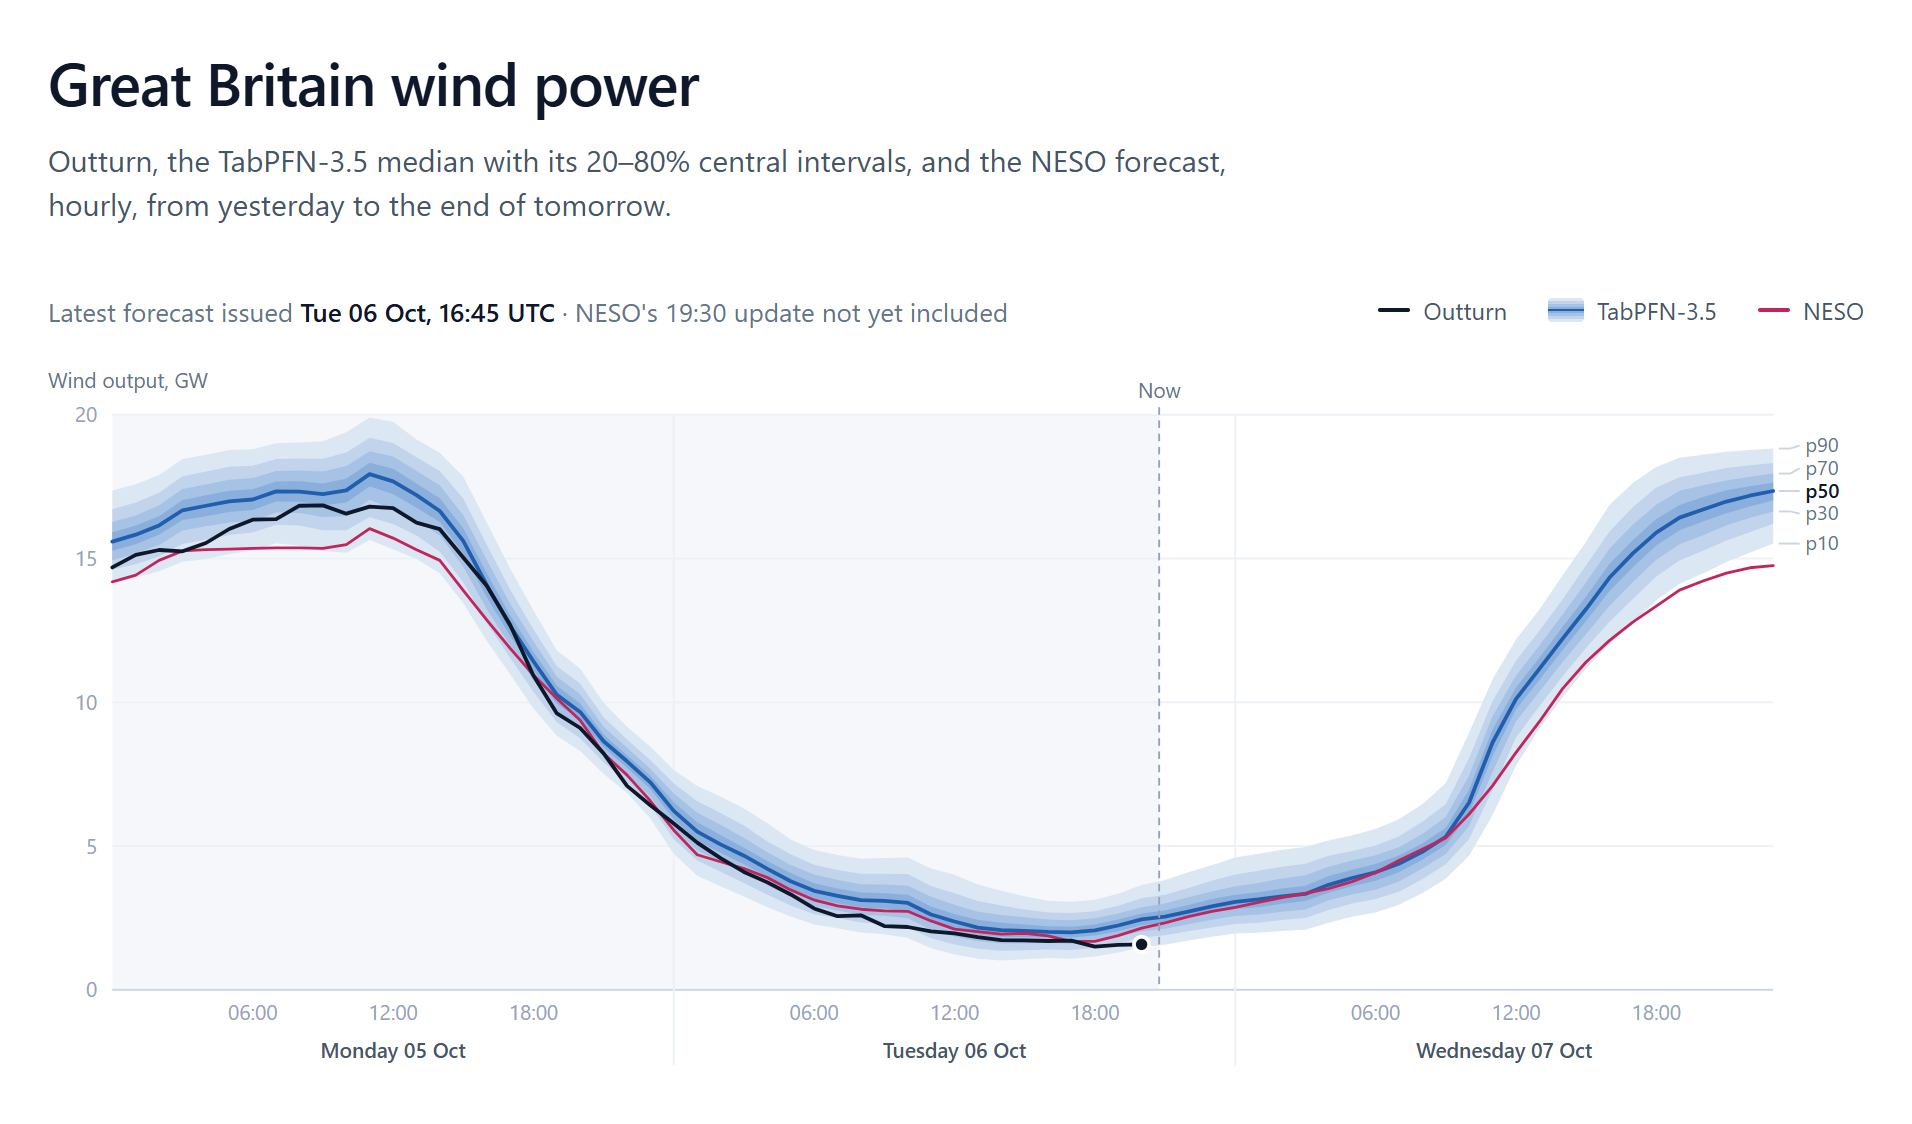
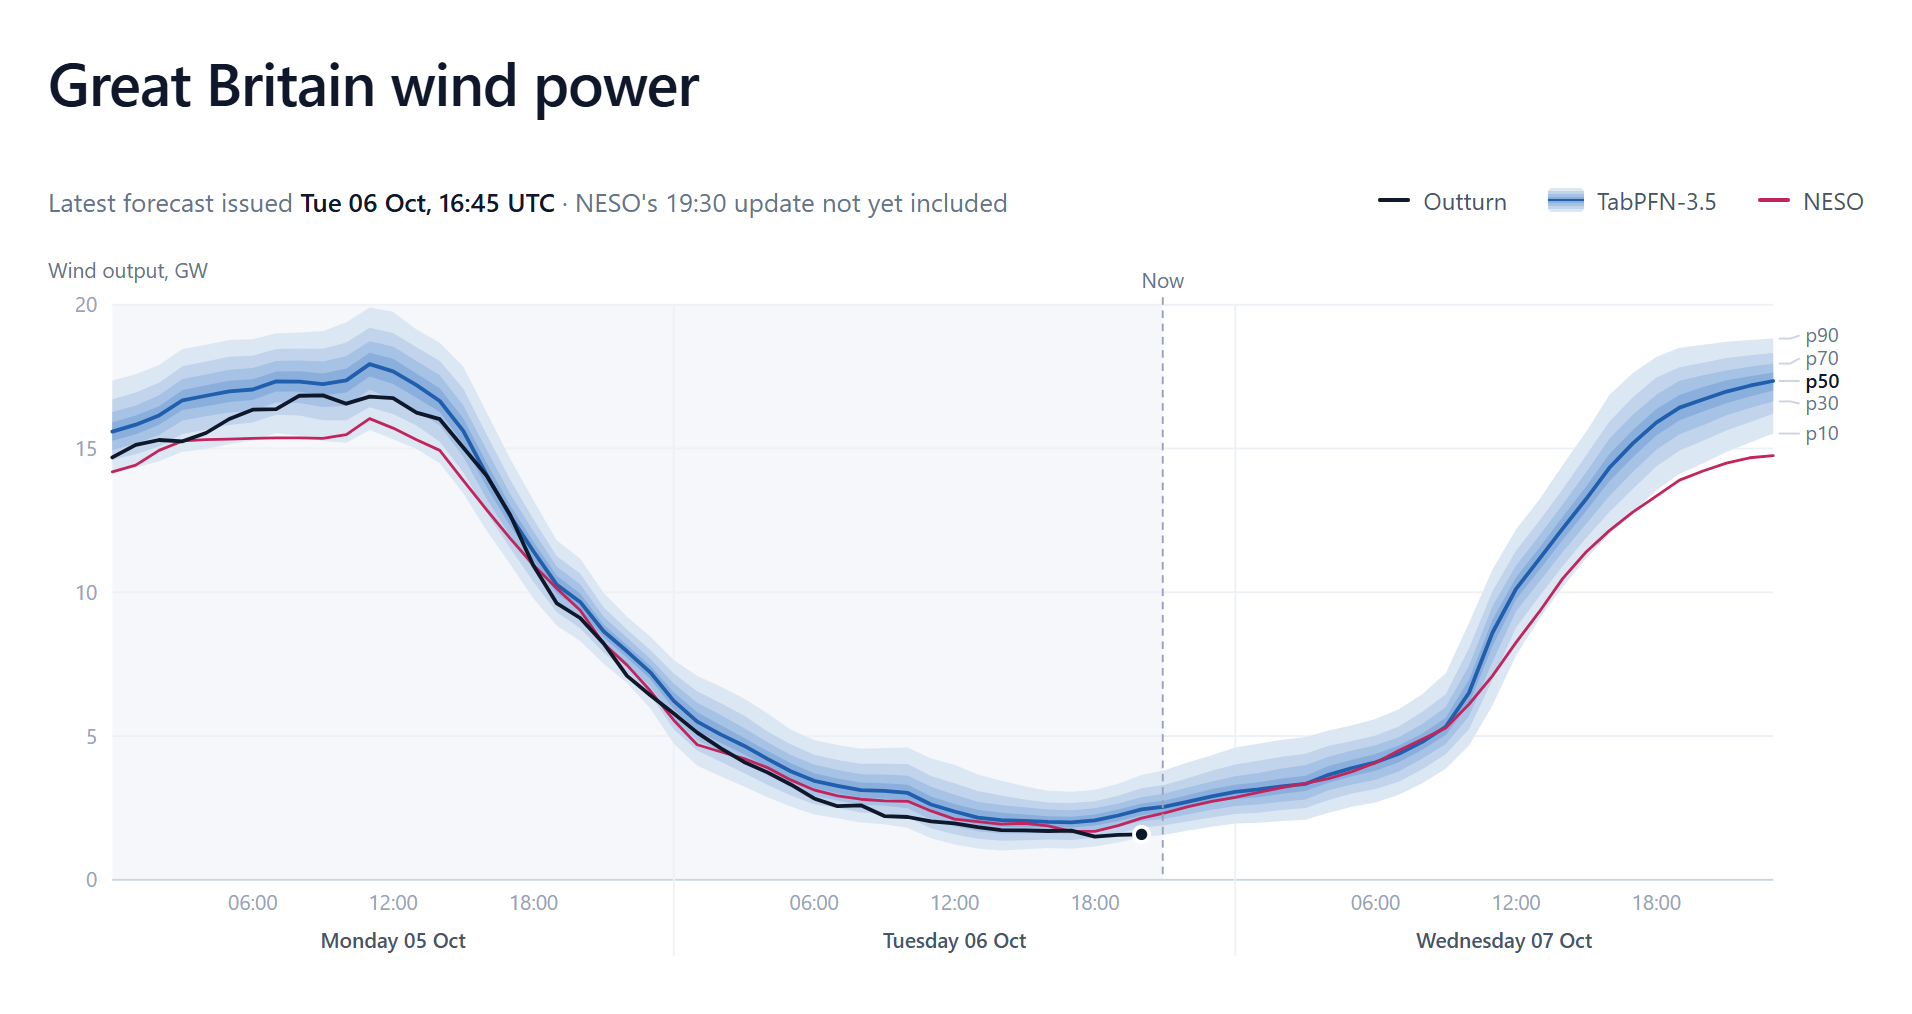
Tidy the live page's benchmark chart and drop the lede

diff --git a/notebooks/explorer.py b/notebooks/explorer.py
@@ -136,7 +136,6 @@ def _():
     .page {{ color: {P["ink"]}; font: 14px/1.5 {FONT}; }}
     .page h1 {{ font-size: 30px; font-weight: 600; letter-spacing: -.02em; line-height: 1.15;
                 margin: 4px 0 10px; color: {P["ink"]}; }}
-    .page .lede {{ color: {P["ink2"]}; font-size: 15px; max-width: 620px; margin: 0; }}
     .bar {{ display: flex; flex-wrap: wrap; justify-content: space-between; align-items: center;
             gap: 8px 24px; margin-top: 8px; font-size: 13px; color: {P["muted"]}; }}
     .bar b {{ color: {P["ink"]}; font-weight: 500; }}
@@ -165,7 +164,7 @@ def _():
     .chart .tip .note {{ font-size: 10.5px; }}
     .notes {{ color: {P["ink2"]}; max-width: 620px; margin: 4px 0 16px; }}
     .notes b {{ color: {P["ink"]}; font-weight: 600; }}
-    .scores {{ display: block; max-width: 600px; width: 100%; height: auto; font: 12px {FONT};
+    .scores {{ display: block; max-width: 720px; width: 100%; height: auto; font: 12px {FONT};
                font-variant-numeric: tabular-nums; }}
     .scores text {{ fill: {P["ink2"]}; }}
     .scores text.head, .scores text.ours, .scores text.value {{ fill: {P["ink"]}; }}
@@ -316,7 +315,7 @@ def _(P, np, pd):
 
     def scores(meta, W: int = 600) -> str:
         """Held-out MAE and 80% interval coverage, TabPFN-3.5 against NESO and the references."""
-        label, panel, gap, row, top = 190, 170, 40, 30, 30
+        label, panel, gap, row, top = 190, 150, 60, 28, 28
         mae_x, cover_x = label, label + panel + gap
         bottom = top + row * len(meta.scores)
         H = bottom + 16
@@ -336,12 +335,13 @@ def _(P, np, pd):
             out.append(f'<rect x="{mae_x}" y="{y + 4}" width="{width:.1f}" height="14" rx="2" fill="{colour}"/>')
             out.append(f'<text x="{mae_x + width + 6:.1f}" y="{y + 15}" class="value">{mae:,}</text>')
             if cover is None:
-                out.append(f'<text x="{cover_x}" y="{y + 15}" class="note">point forecast only</text>')
+                out.append(f'<text x="{cover_x}" y="{y + 15}" class="note">no interval</text>')
                 continue
             width = cover * panel
             out.append(f'<rect x="{cover_x}" y="{y + 4}" width="{width:.1f}" height="14" rx="2" fill="{colour}"/>')
-            out.append(f'<text x="{W}" y="{y + 15}" text-anchor="end" class="value">{cover:.0%}</text>')
-        return f'<svg class="scores" viewBox="0 0 {W} {H}" role="img">{"".join(out)}</svg>'
+            out.append(f'<text x="{cover_x + panel + 8}" y="{y + 15}" class="value">{cover:.0%}</text>')
+        return (f'<svg class="scores" viewBox="0 0 {W} {H}" role="img" '
+                f'style="display:block;max-width:720px;width:100%;height:auto">{"".join(out)}</svg>')
 
     return chart, scores
 
@@ -352,8 +352,6 @@ def _(CSS, mo):
     <style>{CSS}</style>
     <header class="page">
       <h1>Great Britain wind power</h1>
-      <p class="lede">Outturn, the TabPFN-3.5 median with its 20–80% central intervals, and the NESO
-      forecast, hourly, from yesterday to the end of tomorrow.</p>
     </header>
     """)
     return
@@ -384,10 +382,11 @@ def _(P, chart, incumbent, live, mo, newest, now, observed, pd):
 
 
 @app.cell(hide_code=True)
-def _(meta, mo, scores):
+def _(CSS, meta, mo, scores):
     _scores = {name: (mae, cover) for name, mae, cover in meta.scores}
     _ours, _neso, _lgbm, _qrf = (_scores[k] for k in ("TabPFN-3.5", "NESO", "LightGBM", "Quantile regression forest"))
     _benchmark = mo.Html(f"""
+    <style>{CSS}</style>
     <div class="page">
       <p class="notes">Over {meta.days} held-out days, TabPFN-3.5 missed by <b>{_ours[0]:,} MW</b> on average,
       NESO by {_neso[0]:,}. Its 80% interval held {_ours[1]:.0%} of hours, with no calibration step.
@@ -396,7 +395,8 @@ def _(meta, mo, scores):
       {scores(meta)}
     </div>
     """)
-    _method = mo.Html("""
+    _method = mo.Html(f"""
+    <style>{CSS}</style>
     <div class="page">
       <p class="notes">Fifteen minutes after each NESO update, TabPFN-3.5 reads that forecast, the latest metered
       output, ECMWF AIFS 10 m wind at 20 capacity-weighted points, and every settled hour since April
